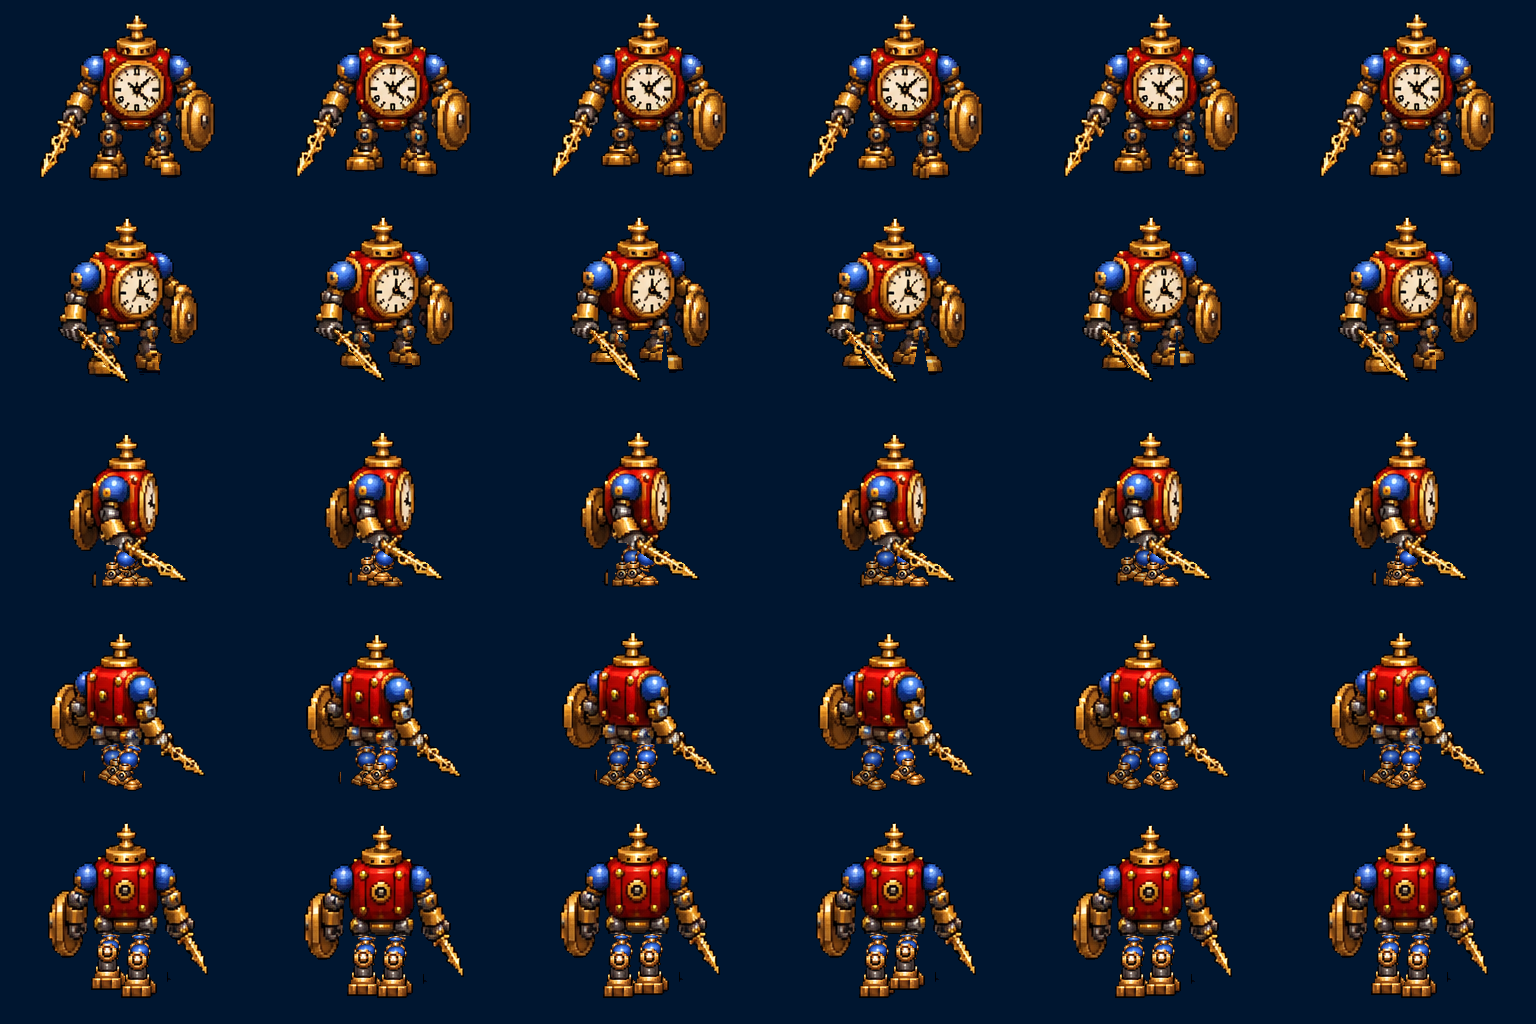
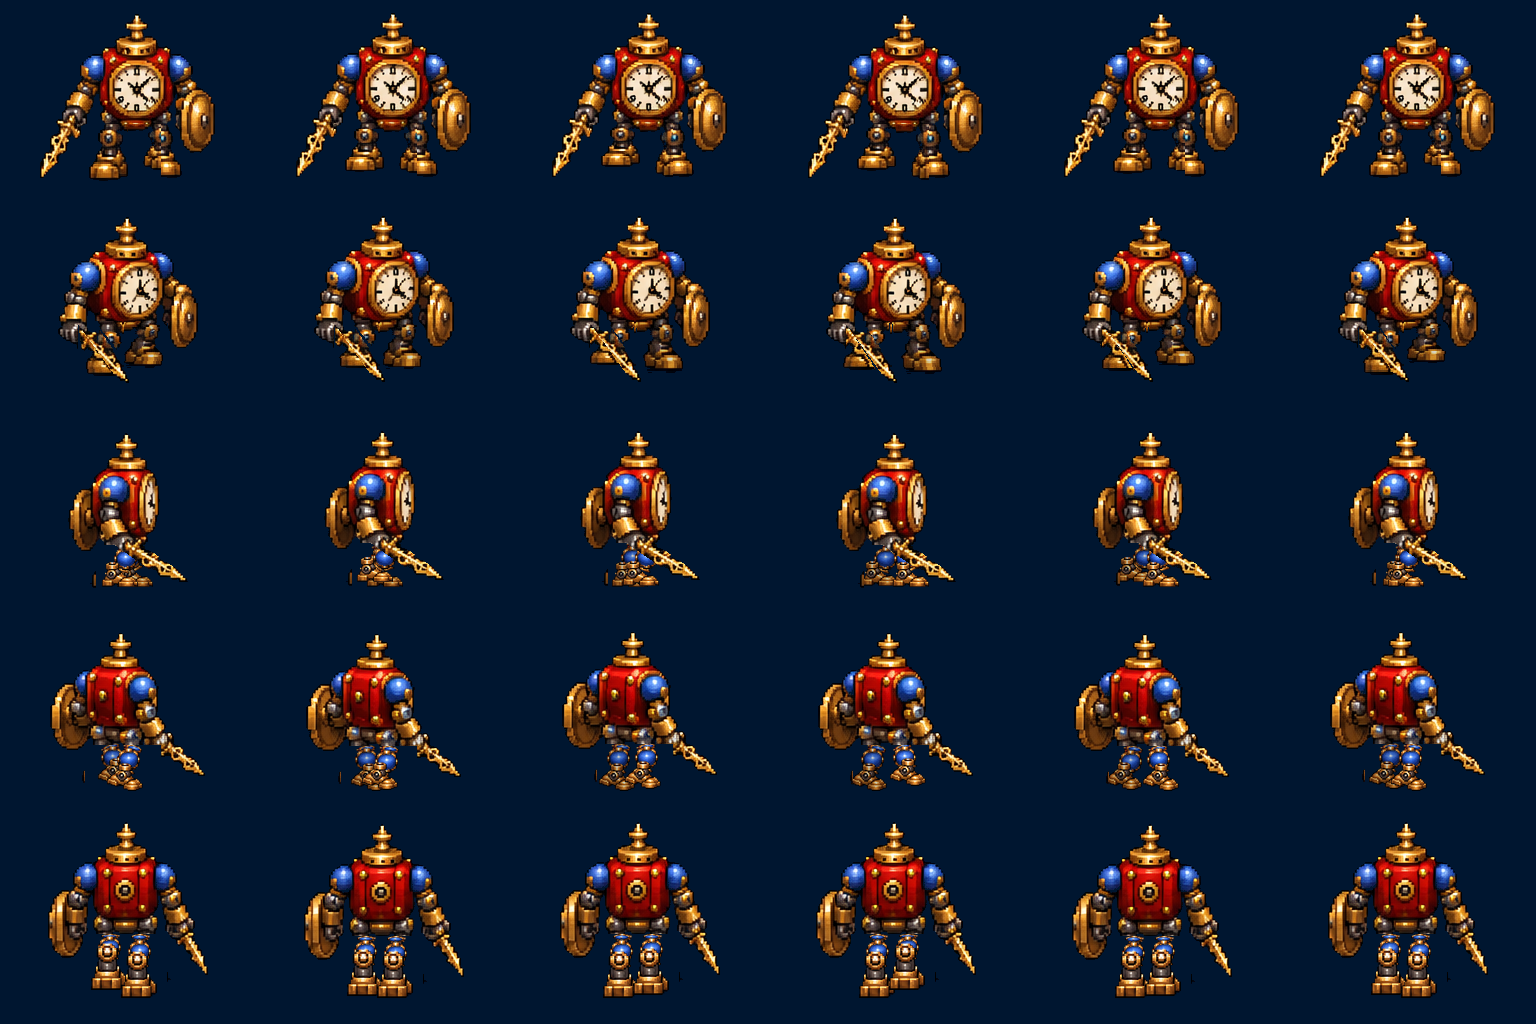
Art: Clock Soldier walk, SE row rebuilt with whole legs
Claude-Session: https://claude.ai/code/session_01NtmEZhP1uA8k4DLQ7BYfMz

diff --git a/tools/soldier_guide/walk_se_fix.py b/tools/soldier_guide/walk_se_fix.py
@@ -1,0 +1,66 @@
+"""Rebuild the SE row of the mixed walk: clean leg masks (boxes), sword kept with the body, legs sheared at the hip."""
+import numpy as np, math
+from PIL import Image
+exec(open('tools/soldier_guide/walk_guide.py').read().split("W,H=1536,1024")[0])
+def warp_leg(F,lm,hip,s,lift,fx,fy):
+    h,w=lm.shape; out=np.zeros_like(F); om=np.zeros_like(lm)
+    ys,xs=np.nonzero(lm)
+    if len(ys)==0: return out,om
+    bot=ys.max(); Lh=max(1,bot-hip)
+    newL=max(4,Lh+fy*s-lift)
+    for y in range(hip,h):
+        for x in range(w):
+            pass
+    # inverse map: for each target pixel find the source pixel
+    yy,xx=np.mgrid[0:h,0:w]
+    ty=yy-hip; frac=np.clip(ty/newL,0,None)
+    sy=(hip+frac*Lh).round().astype(int)
+    sx=(xx-fx*s*np.clip(frac,0,1)).round().astype(int)
+    ok=(ty>=0)&(sy<h)&(sx>=0)&(sx<w)
+    sel=np.zeros_like(lm); sel[ok]=lm[sy[ok],sx[ok]]
+    out[sel]=F[sy[sel],sx[sel]]; om=sel
+    return out,om
+
+r=1
+box,hip,split,far,(fx,fy)=ROWS[r]; hip=104
+x0,y0,x1,y1=box; F=im[y0:y1,x0:x1]; M=np.abs(F-NAVY).sum(2)>45
+SW=excl_mask(M.shape,(None,None,(22,98,72,168,7)))&M
+legL=np.zeros_like(M); legL[104:,20:64]=M[104:,20:64]&~SW[104:,20:64]
+legR=np.zeros_like(M); legR[104:,66:110]=M[104:,66:110]&~SW[104:,66:110]
+body=M&~legL&~legR
+P=16
+def pad(a,v):
+    o=np.zeros((a.shape[0]+P,a.shape[1]+2*P)+a.shape[2:],a.dtype)
+    if v is not None: o[:]=v
+    o[:a.shape[0],P:P+a.shape[1]]=a; return o
+Fp=pad(F,NAVY); bodyp,lLp,lRp=pad(body,None),pad(legL,None),pad(legR,None)
+A=9.0; L=7.0
+fr=[]
+for c in range(6):
+    p=c/6.0
+    sA=math.cos(2*math.pi*p)*A; lA=max(0.0,math.sin(2*math.pi*p))*L
+    sB=-sA; lB=max(0.0,-math.sin(2*math.pi*p))*L
+    bob=round(1.5*abs(math.cos(2*math.pi*p)))
+    cell=np.zeros_like(Fp); cell[:]=NAVY
+    for name,lm,s,lift in (('R',lRp,sB,lB),('L',lLp,sA,lA)):
+        src=Fp.copy()
+        if name=='R': src=(src*0.85).astype(int)
+        o,om=warp_leg(src,lm,hip,s,lift,fx,fy); cell[om]=o[om]
+    b=np.roll(bodyp,bob,axis=0); bs=np.roll(Fp,bob,axis=0); cell[b]=bs[b]
+    fr.append(cell)
+sheet=np.array(Image.open('art/redraws/clock_soldier_walk_mix.png').convert('RGB')).astype(int)
+CW,CH=256,204
+for c,cell in enumerate(fr):
+    sheet[CH:2*CH, c*CW:(c+1)*CW]=NAVY
+    cx=c*CW+(CW-cell.shape[1])//2; cy=CH+(CH-cell.shape[0])//2
+    sheet[cy:cy+cell.shape[0],cx:cx+cell.shape[1]]=cell
+S=Image.fromarray(sheet.astype('uint8')); S.save('art/redraws/clock_soldier_walk_mix.png')
+o=Image.new('RGB',(6*180,170))
+for c in range(6): o.paste(S.crop((c*CW+40,CH+20,c*CW+220,CH+190)),(c*180,0))
+o.resize((2160,340),Image.NEAREST).save('/tmp/claude-0/-home-claude/3bf5c283-94b1-59fe-b83b-7f9d81ecfc35/scratchpad/se_row.png')
+g=[]
+for c in range(6):
+    f=Image.new('RGB',(5*CW,CH))
+    for rr in range(5): f.paste(S.crop((c*CW,rr*CH,(c+1)*CW,(rr+1)*CH)),(rr*CW,0))
+    g.append(f)
+g[0].save('art/redraws/clock_soldier_walk_mix.gif',save_all=True,append_images=g[1:],duration=140,loop=0)

diff --git a/docs/art_style_inconsistency.md b/docs/art_style_inconsistency.md
@@ -84,3 +84,4 @@ Update (v7): the spring comes out along the building's facing, diagonally down a
 - tools/soldier_guide/walk_code.py builds the WALK itself from the painted idle frame (ChatGPT's repaint of the guide came back almost without steps): each leg stays attached at the hip, the foot is sheared forward/back and the leg shortened as it lifts. Result art/redraws/clock_soldier_walk.png (+ .gif preview).
 - tools/soldier_guide/rig.py: cut-out RIG. The legs are ChatGPT's painted parts (art/redraws/clock_soldier_parts.png: thigh, knee, shin, foot; front parts for S/N, side parts for the others, feet per direction), scaled and rotated at hip and knee in code; the body comes from the painted idle frame; feet are kept on the ground (automatic bob). Walk result art/redraws/clock_soldier_walk_rig.png/.gif. The same rig can make the attack and death.
 - art/redraws/clock_soldier_walk_mix.png/.gif: the walk used for now. Rows S and SE come from walk_code.py (the painted idle legs bent in place; the parts rig looked wrong from the front: long thin legs that do not match the stubby painted ones), rows E, NE and N from the parts rig (rig.py).
+- tools/soldier_guide/walk_se_fix.py rebuilds the SE row of clock_soldier_walk_mix.png with exact leg boxes (the first split cut each leg in half) and the sword kept with the body.
